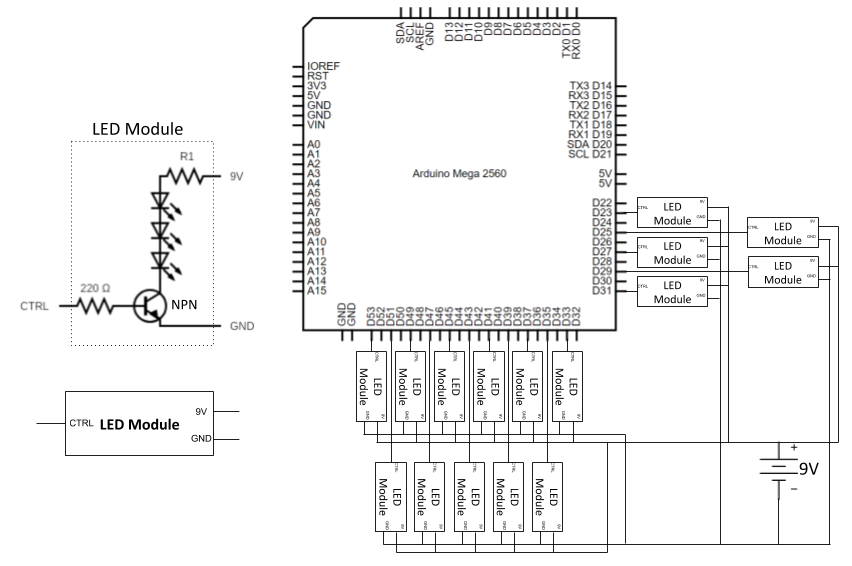
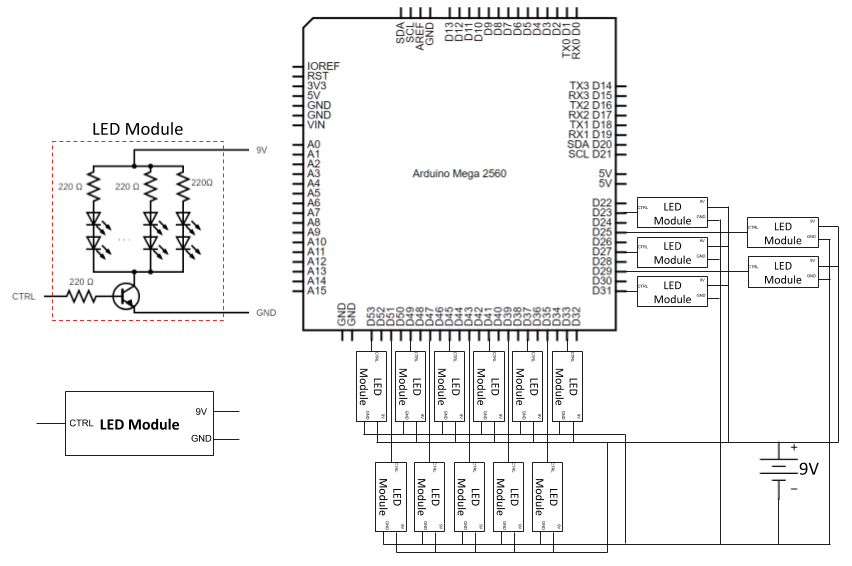
updated circuit diagram

Changed region(s): [[0.0, 0.2403, 0.3357, 0.6007]]

diff --git a/README.md b/README.md
@@ -13,7 +13,3 @@ Upload `pi_to_arduino.ino` to arduino MEGA and connect LED's as well as resistor
 
 # Possible Circuit Implementation:
 ![Screenshot of example GUI](SSVEP_arduino_circuit_diagram.png)
-
-Notes:
-R1 should be selected so that it drops the rest of the voltage after the 3 LED's: R1 = (9V-3*[LED_Voltage]/0.02A)
-NPN transistor should have a 5V Emitter-Base Voltage
